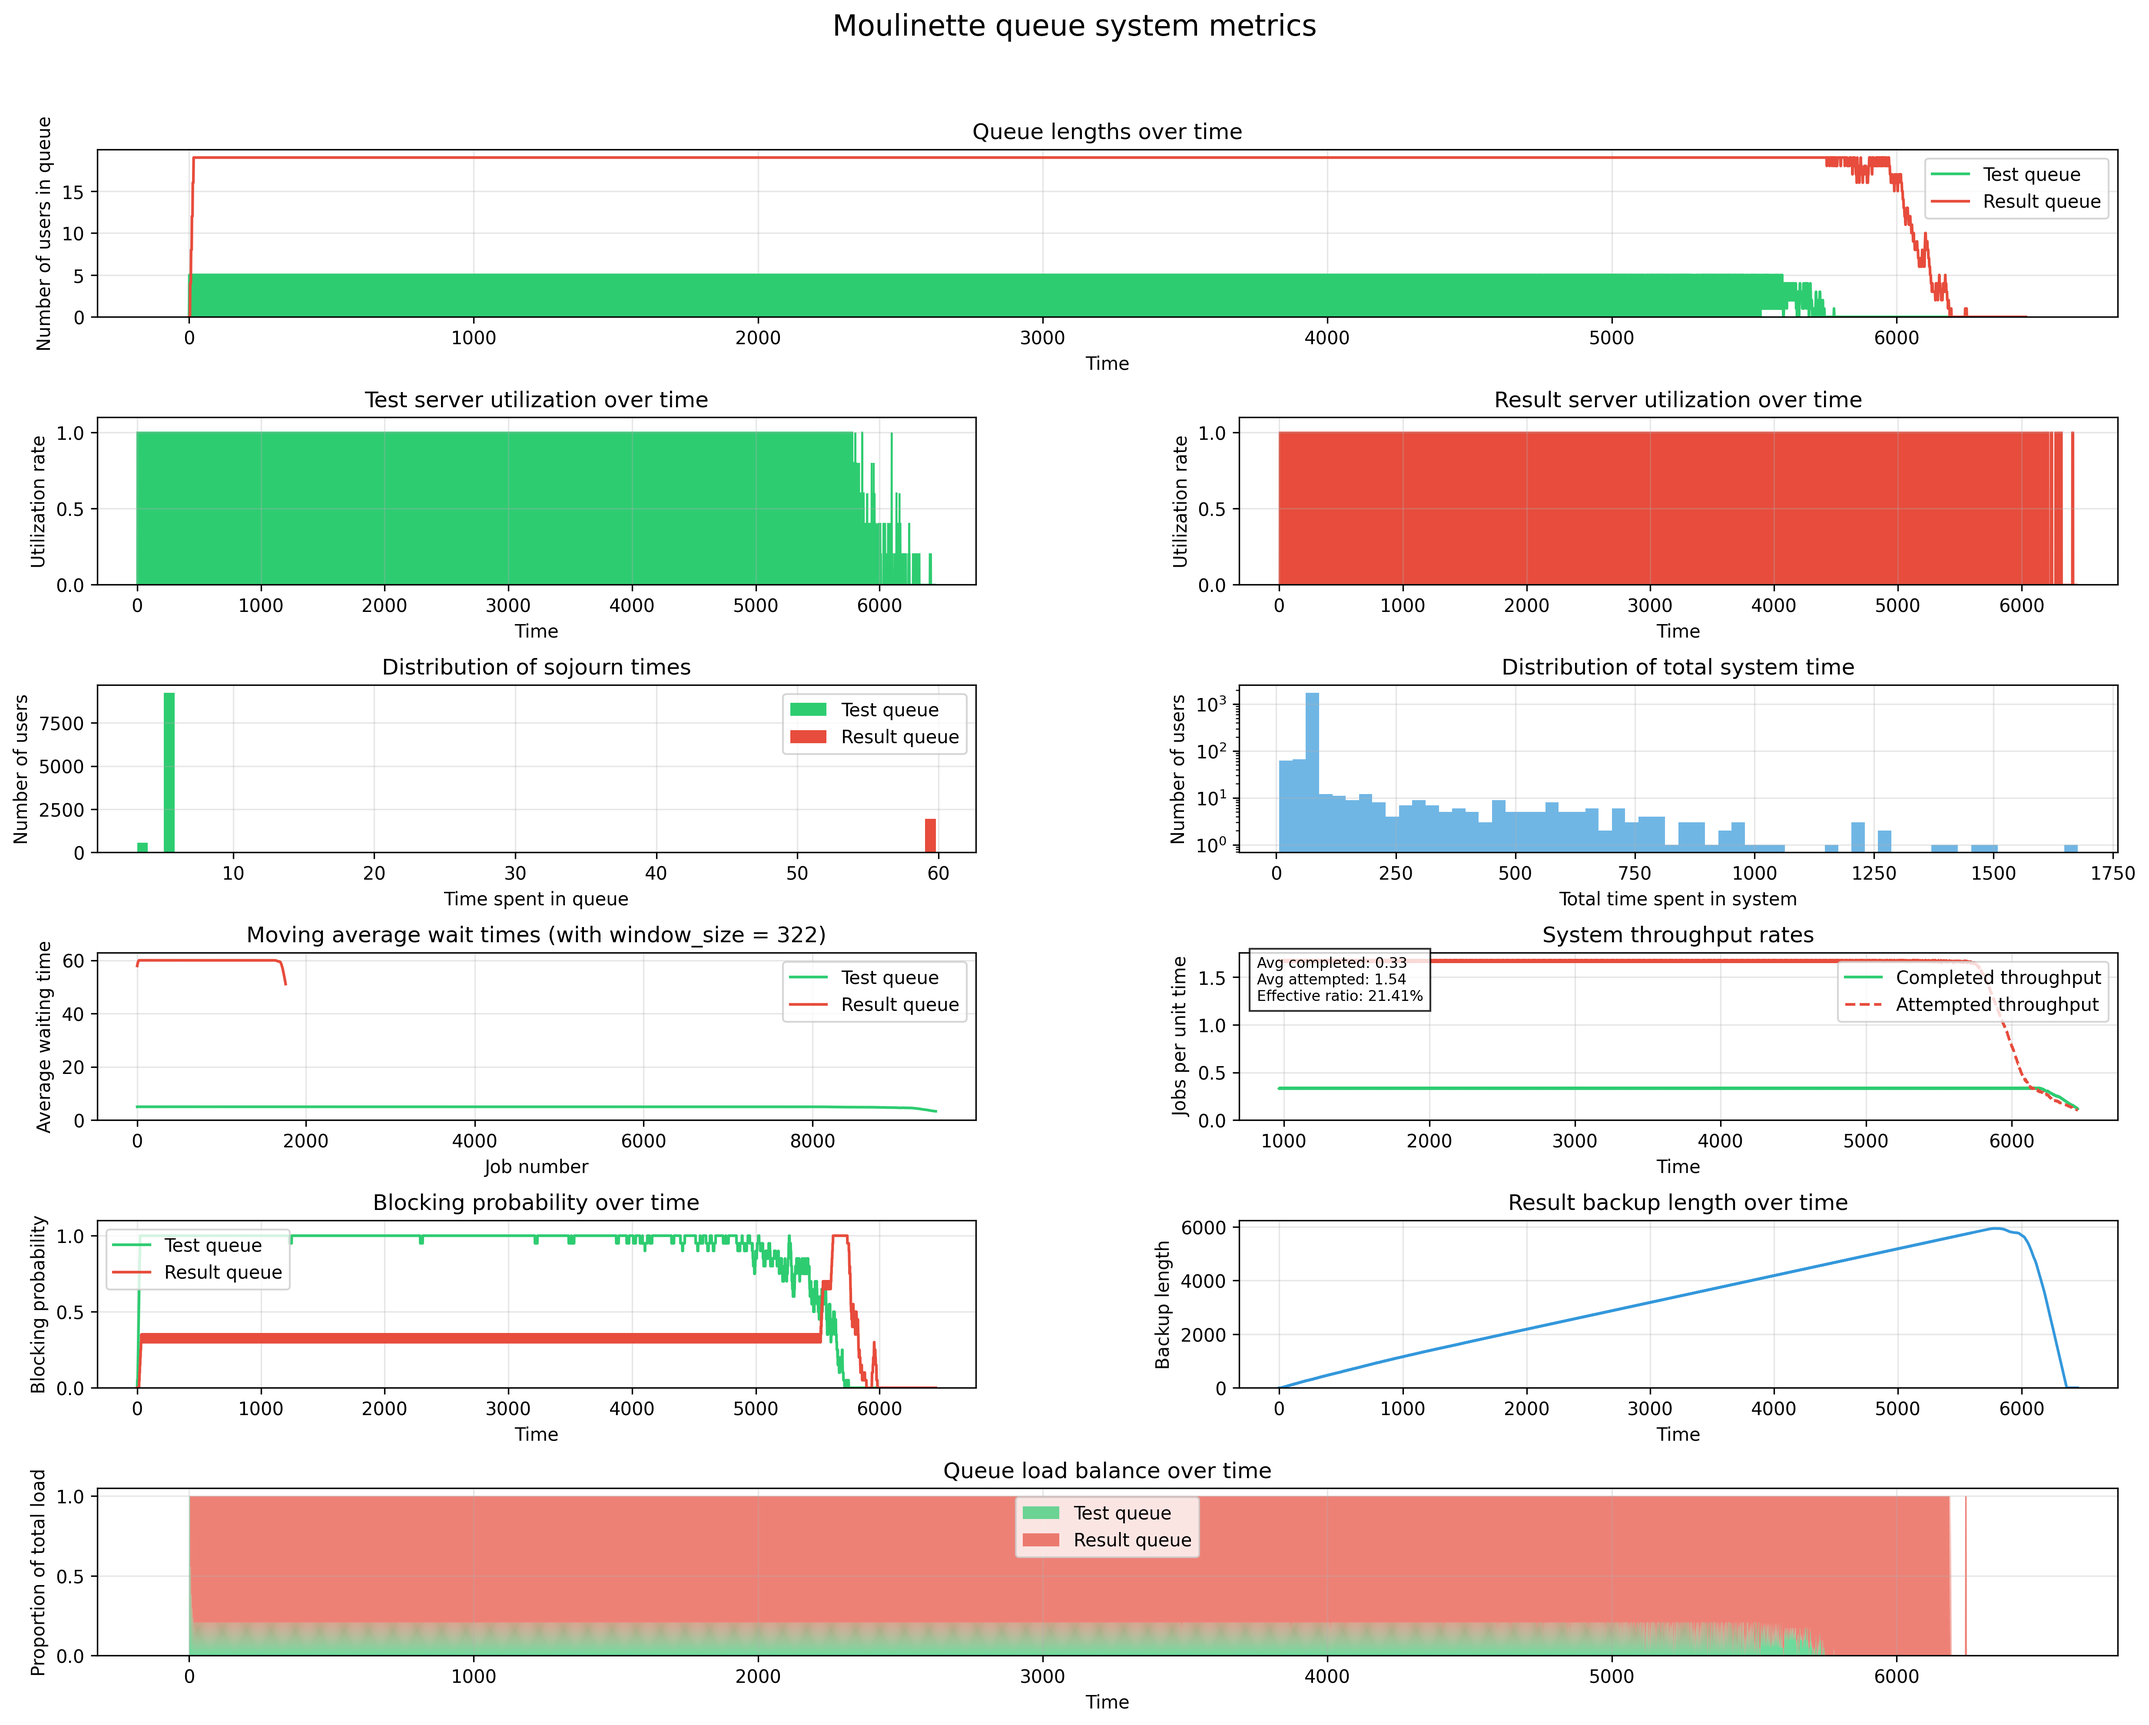
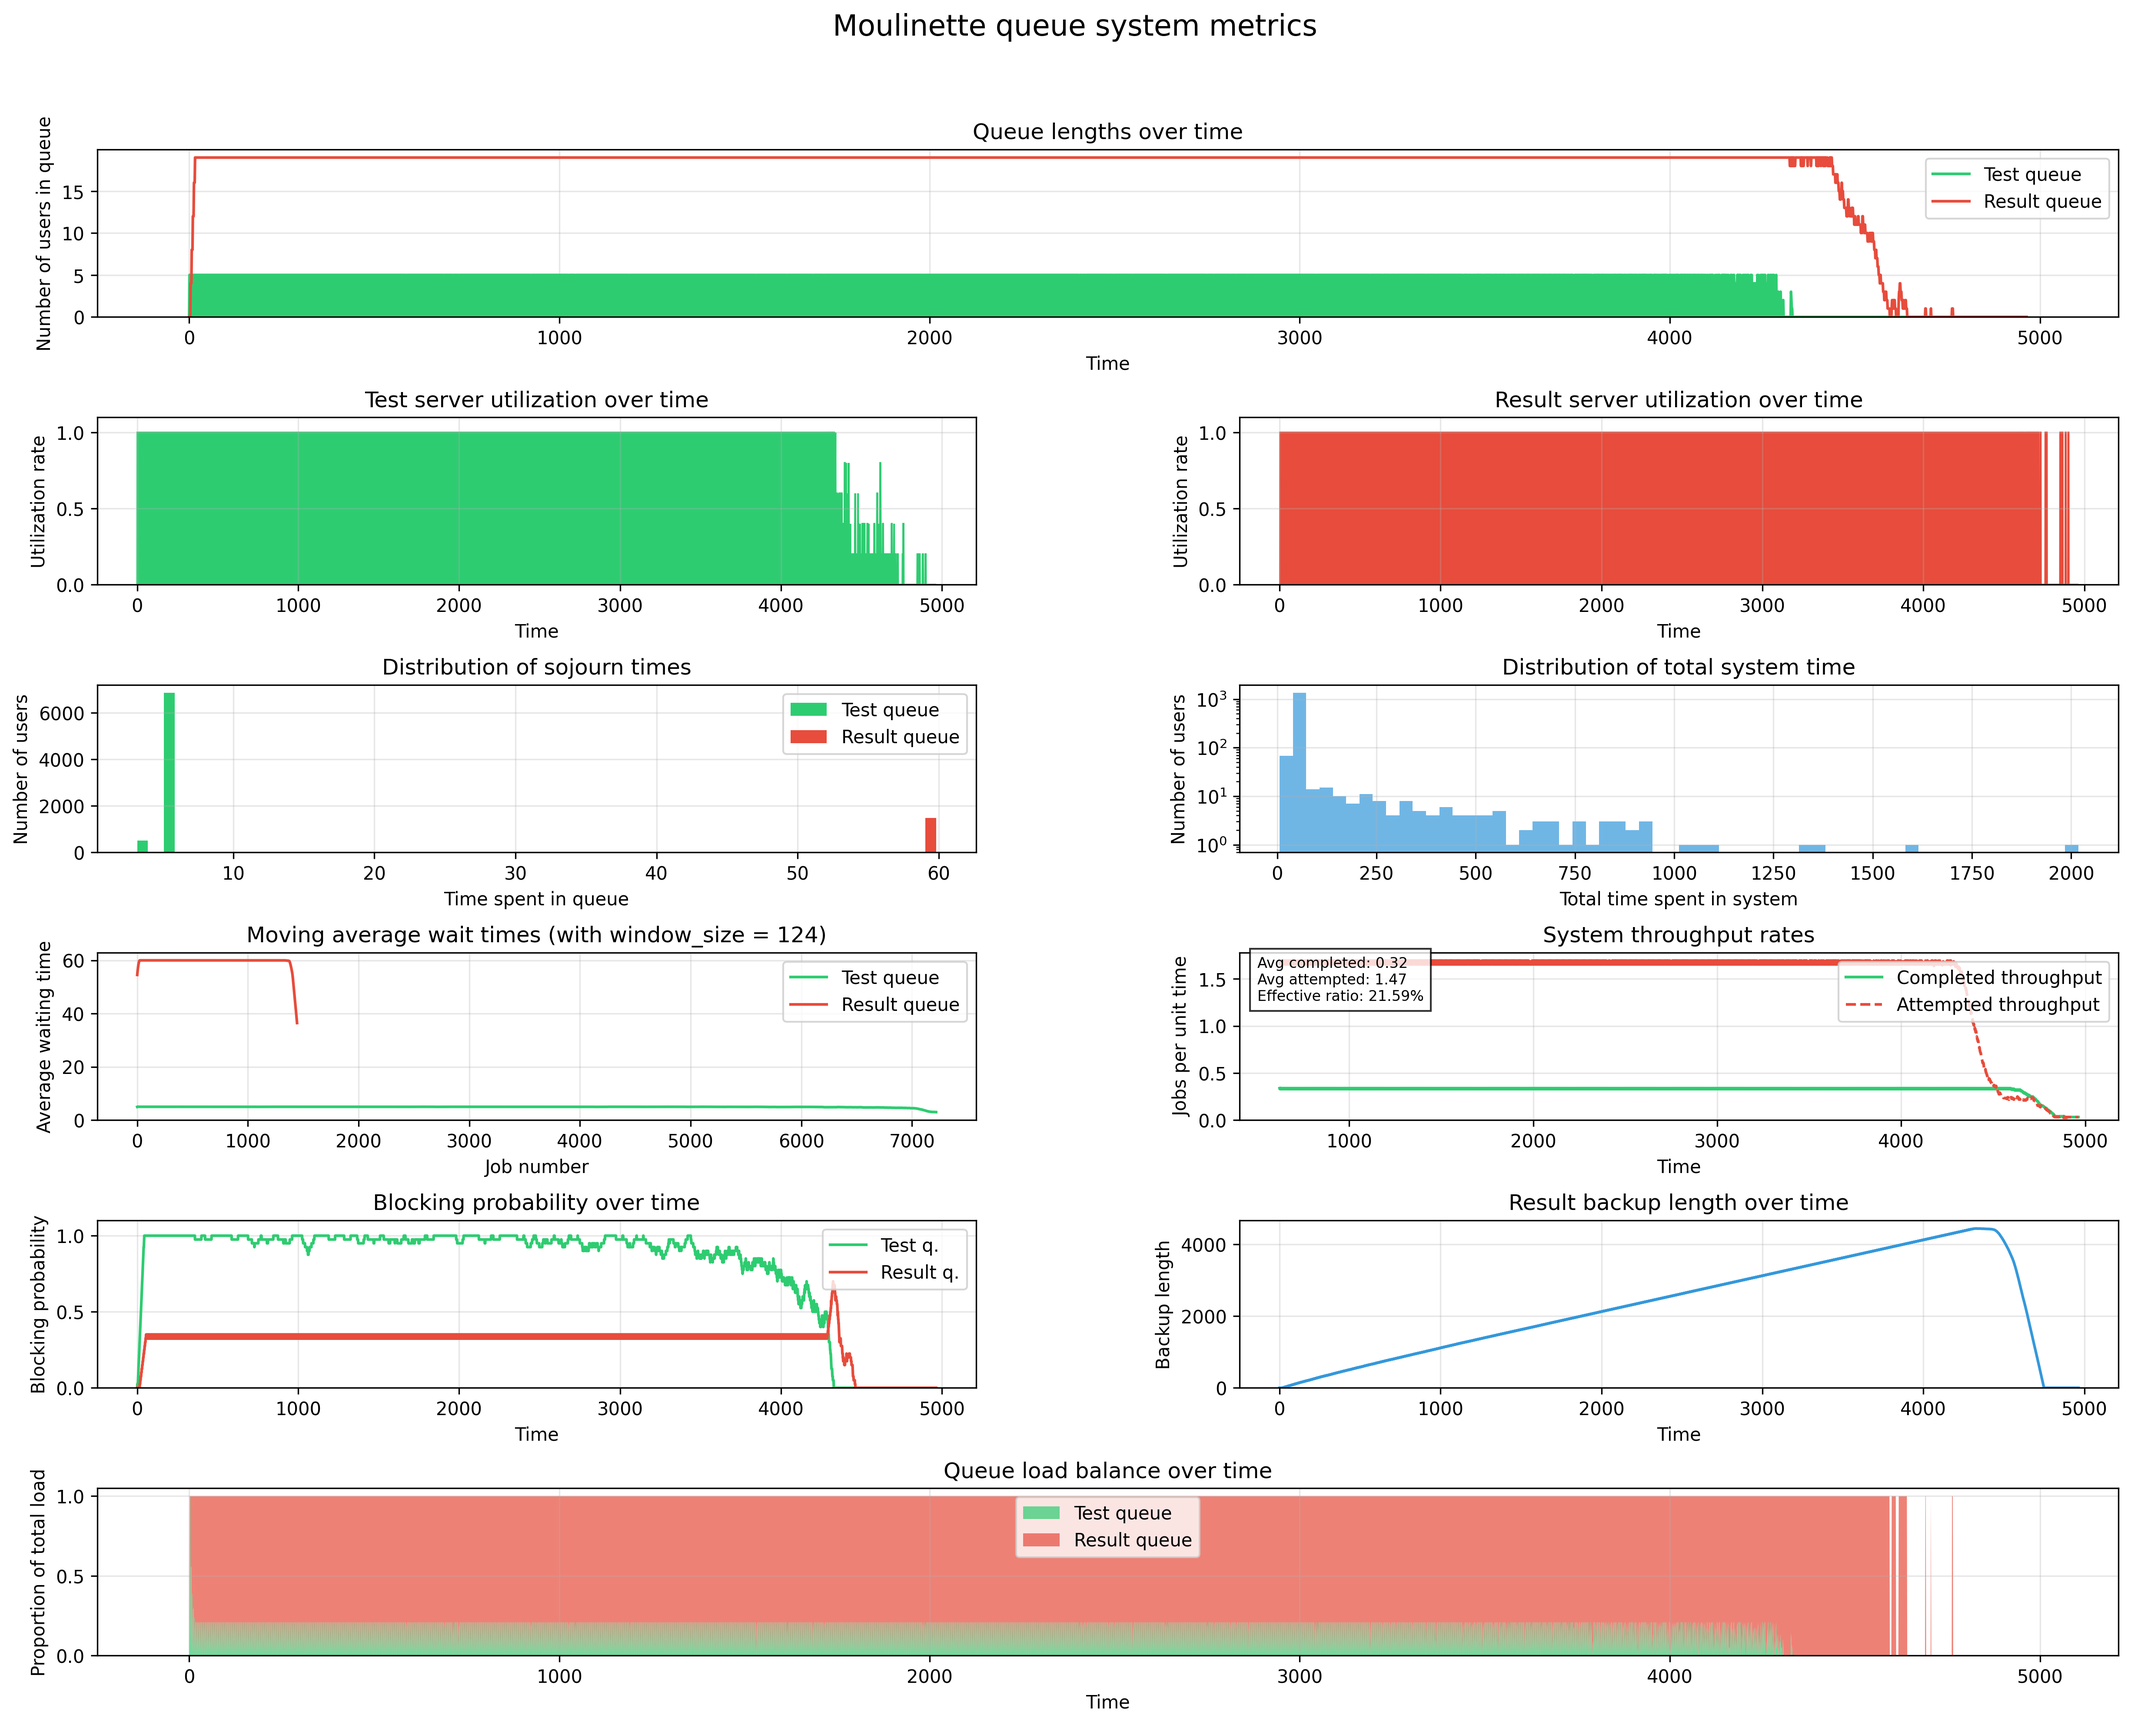
[main] fix: graph compute opti

diff --git a/queue_metrics.py b/queue_metrics.py
@@ -326,7 +326,7 @@ class QueueMetrics:
 
         # 6
         ax6 = fig.add_subplot(gs[3, 0])
-        window_size = max(1, len(self.timestamps) // 20)
+        window_size = max(1, len(self.timestamps) // 40)
 
         if test_sojourn_times:
             cumsum = np.cumsum(np.insert(test_sojourn_times, 0, 0))
@@ -363,7 +363,7 @@ class QueueMetrics:
         if self.timestamps:
             # warmup period (10% of simulation time)
             warmup_period = self.timestamps[-1] * 0.1
-            window_size = max(1, len(self.timestamps) // 20)
+            window_size = max(1, len(self.timestamps) // 40)
 
             # Collect data after warmup period
             for t in tqdm(self.timestamps, desc="Computing throughput intervals"):
@@ -441,37 +441,36 @@ class QueueMetrics:
 
         # 8
         ax8 = fig.add_subplot(gs[4, 0])
+
+        test_blocked_times_set = set(self.test_queue_blocked_times)
+        result_blocked_times_set = set(self.result_queue_blocked_times)
+        window_size = max(1, len(self.timestamps) // 40)
         block_window = max(1, len(self.timestamps) // window_size)
 
-        test_blocks = []
-        result_blocks = []
-        for t in tqdm(self.timestamps, desc="Computing blocking probability"):
-            test_blocked = sum(
-                1
-                for time in range(max(0, t - block_window), t)
-                if time in self.test_queue_blocked_times
-            )
-            result_blocked = sum(
-                1
-                for time in range(max(0, t - block_window), t)
-                if time in self.result_queue_blocked_times
-            )
+        if block_window > 0:
+            test_blocks = np.zeros(len(self.timestamps))
+            result_blocks = np.zeros(len(self.timestamps))
 
-            test_blocks.append(test_blocked / block_window if block_window > 0 else 0)
-            result_blocks.append(
-                result_blocked / block_window if block_window > 0 else 0
-            )
+            for idx, t in tqdm(enumerate(self.timestamps), desc="Computing blocking probability"):
+                # Use a slice of the timestamp range to find blocked times
+                test_blocked = sum(1 for time in range(max(0, t - block_window), t) if time in test_blocked_times_set)
+                result_blocked = sum(1 for time in range(max(0, t - block_window), t) if time in result_blocked_times_set)
 
-        ax8.plot(self.timestamps, test_blocks, label="Test queue", color=color_test)
-        ax8.plot(
-            self.timestamps, result_blocks, label="Result queue", color=color_result
-        )
+                test_blocks[idx] = test_blocked / block_window
+                result_blocks[idx] = result_blocked / block_window
+        else:
+            # Edge case: If block_window is 0, set blocking probabilities to 0
+            test_blocks = np.zeros(len(self.timestamps))
+            result_blocks = np.zeros(len(self.timestamps))
+
+        ax8.plot(self.timestamps, test_blocks, label="Test q.", color=color_test)
+        ax8.plot(self.timestamps, result_blocks, label="Result q.", color=color_result)
         ax8.set_title("Blocking probability over time")
         ax8.set_xlabel("Time")
         ax8.set_ylabel("Blocking probability")
         ax8.grid(True, alpha=0.3)
         ax8.set_ylim(0, 1.1)
-        ax8.legend(loc="upper left")
+        ax8.legend(loc="upper right")
 
         # 9
         ax9 = fig.add_subplot(gs[4, 1])

diff --git a/main.py b/main.py
@@ -68,7 +68,7 @@ def launch_test(
 
 
 if __name__ == "__main__":
-    user_list = create_user_list(generate_users_names(130))
+    user_list = create_user_list(generate_users_names(100))
 
     # print("\n\n=== Waterfall Moulinette (Infinite Queues) ===\n")
     # wm_inf = WaterfallMoulinetteInfinite(K=2, process_time=2, result_time=2)
